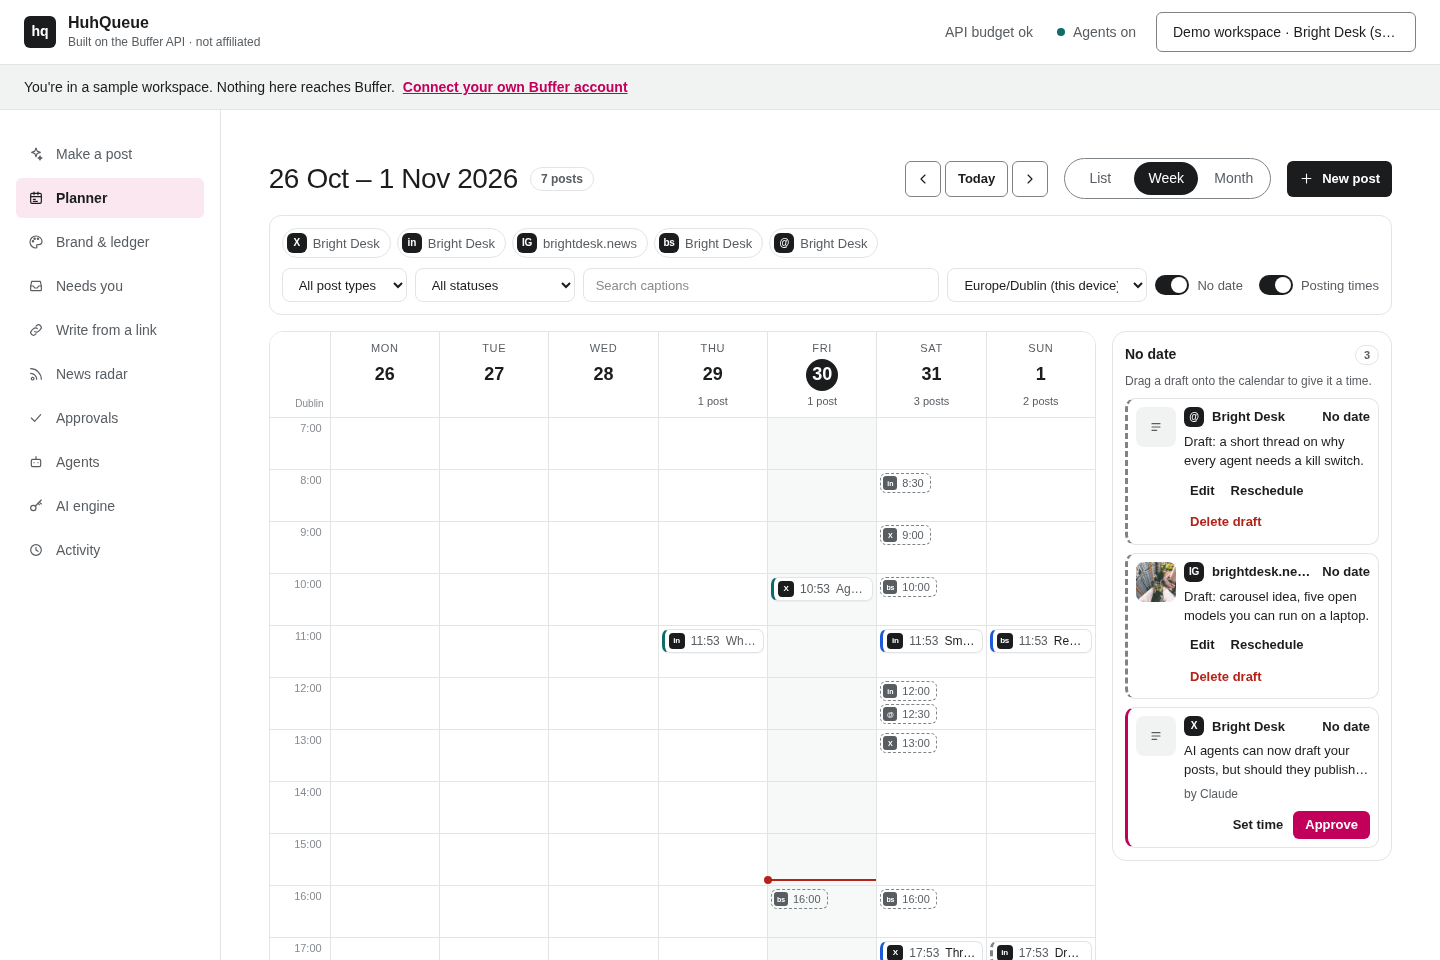
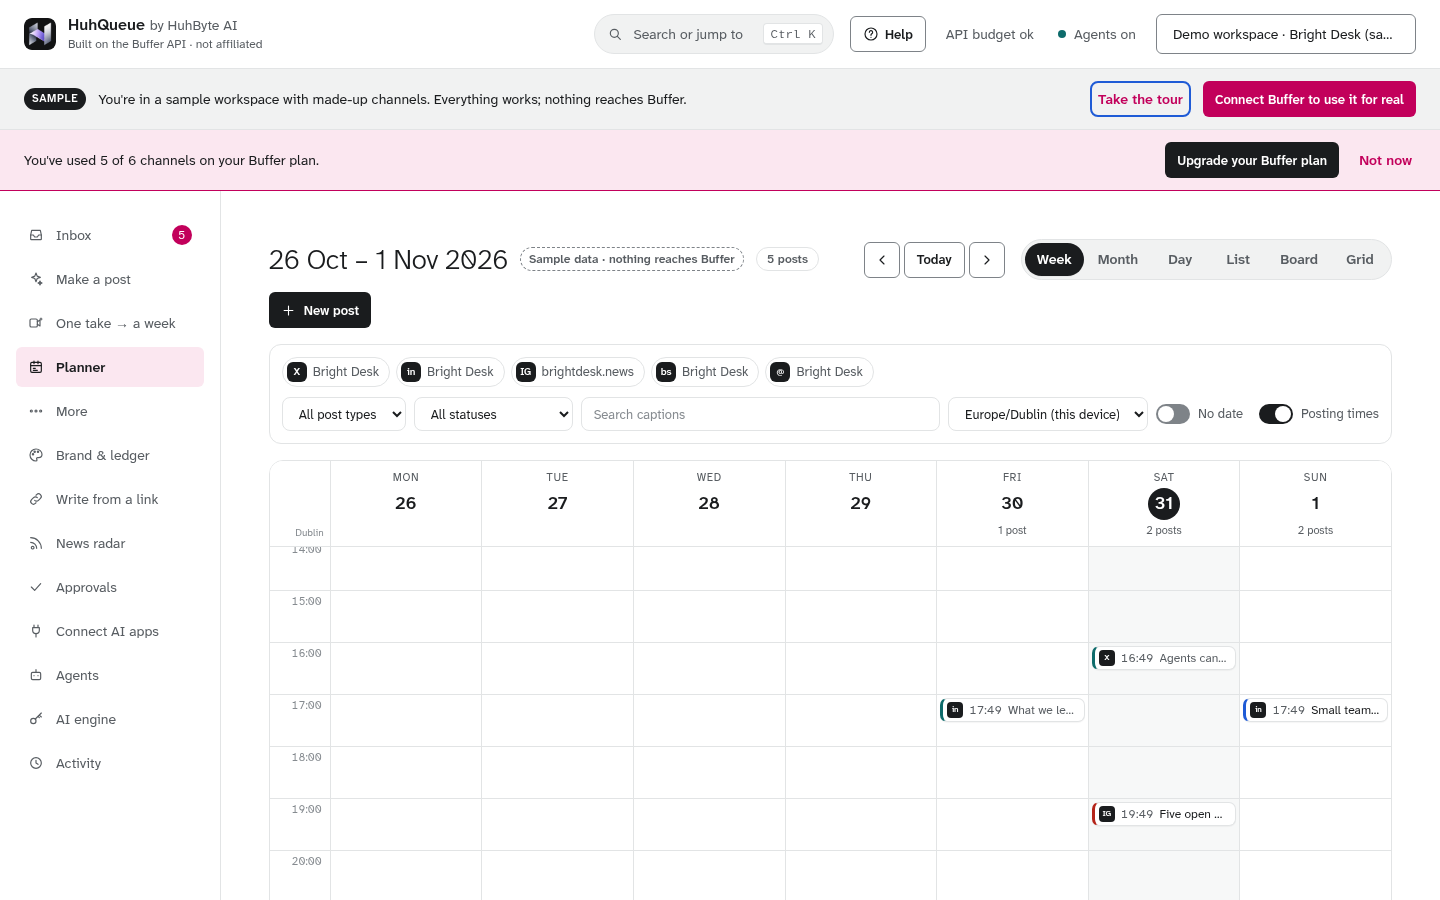
README screenshots: all six Planner views re-shot from the real app (light and dark), plus the landing, the Ctrl/Cmd K palette and Connect AI apps

diff --git a/README.md b/README.md
@@ -12,7 +12,7 @@ Claude or ChatGPT can do all of this over MCP, but nothing they write goes out u
 
 <picture>
   <source media="(prefers-color-scheme: dark)" srcset="docs/screenshots/planner-week-dark.png">
-  <img src="docs/screenshots/planner-week-light.png" alt="HuhQueue Planner, week view: posts from five Buffer channels on an hourly grid, dashed Buffer posting times, and a No date sidebar with drafts and an agent post waiting for approval">
+  <img src="docs/screenshots/planner-week-light.png" alt="HuhQueue Planner, week view: posts from five Buffer channels on an hourly grid opened at the week's first post, with the Week, Month, Day, List, Board and Grid switch">
 </picture>
 
 *The Planner, week view: your Buffer queue and calendar in one place. Drag any post or undated draft to a new time; sent posts stay locked.*
@@ -20,14 +20,21 @@ Claude or ChatGPT can do all of this over MCP, but nothing they write goes out u
 ## Screenshots
 
 All captured from the running app (sample workspace at `/demo`, nothing reaches Buffer) with
-`scripts/planner_shots.py`, `scripts/readme_shots.py` and `scripts/inbox_shots.py`. Re-run them whenever the interface changes.
+`scripts/premium_shots.py` (landing, Planner views, ⌘K, Connect AI apps), `scripts/planner_shots.py`, `scripts/readme_shots.py`
+and `scripts/inbox_shots.py`. Re-run them whenever the interface changes.
 
 | | |
 |---|---|
 | ![Planner week view in light mode, hourly grid with posts and Buffer posting times](docs/screenshots/planner-week-light.png) | ![Planner week view in dark mode](docs/screenshots/planner-week-dark.png) |
 | **Planner, Week** (light). Click an empty slot to schedule there; dashed chips are Buffer's posting times. | **Planner, Week** (dark). Same view, black-and-white dark theme. |
-| ![Planner list view: the Buffer queue grouped by day with thumbnails, channel, time, caption and status, plus edit and reschedule actions](docs/screenshots/planner-list-light.png) | ![Planner month view: a month grid with posts per day and a No date drafts sidebar](docs/screenshots/planner-month-dark.png) |
+| ![Planner list view: the Buffer queue grouped by day with thumbnails, channel, time, caption and status, plus edit and reschedule actions](docs/screenshots/planner-list-light.png) | ![Planner month view: a month grid with posts per day](docs/screenshots/planner-month-dark.png) |
 | **Planner, List**: the Buffer queue by day, with edit, reschedule, approve and delete-draft actions. | **Planner, Month** (dark): "+N more" opens the whole day. |
+| ![Planner day view: one lane per channel with the day's posts, opened at the first post](docs/screenshots/planner-day-light.png) | ![Planner board view: a column per status, Draft, Needs approval, Ready to post, Scheduled in Buffer and Sent](docs/screenshots/planner-board-dark.png) |
+| **Planner, Day**: a lane per channel, opened at the first post. | **Planner, Board** (dark): a column per status; drag a card to move it along. |
+| ![Planner grid view: an Instagram feed preview with planned tiles dashed and posted tiles solid](docs/screenshots/planner-grid-light.png) | ![The Ctrl/Cmd K command palette over the app: go to any screen, run a command or open a doc](docs/screenshots/palette-light.png) |
+| **Planner, Grid**: preview your Instagram feed before it goes out. Keys 1 to 6 switch views. | **⌘K / Ctrl K**: jump to any screen, run a command or open a doc. |
+| ![Connect AI apps: one MCP address, then per-app cards for Claude, ChatGPT, Grok, Claude Code, Codex, Cursor and any MCP client, each with steps, a snippet and when it was last used](docs/screenshots/connect-ai-light.png) | ![The landing page for visitors: Paste one link. Approve one week., with a link box, Connect your Buffer account and Try the demo](docs/screenshots/landing-light.png) |
+| **Connect AI apps**: Claude, ChatGPT and Grok sign in; Claude Code, Codex, Cursor and scripts get a token per app. | **Landing** at `/` for visitors; the app opens once you sign in, and `/demo` opens the sample with a tour. |
 | ![Make a post: the agent edited the user's own photo, with its finished step timeline and the branded image](docs/screenshots/agent-run.png) | ![Ready for Buffer: one package per channel with caption, media, character count and a passing brand check](docs/screenshots/agent-packages.png) |
 | **Make a post**: the agent reads your photo (or researches a topic or link), renders it in your brand and shows every step. | **Ready for Buffer**: one caption per channel, counted Buffer's way and checked against your rules. |
 | ![Brand kit editor with colours, font and end card, a live preview, and the Style Ledger listing four learned rules](docs/screenshots/brand-ledger.png) | ![Approvals: a post written by the Claude agent waiting for a human, with Reject and Approve and send to Buffer](docs/screenshots/approvals.png) |
